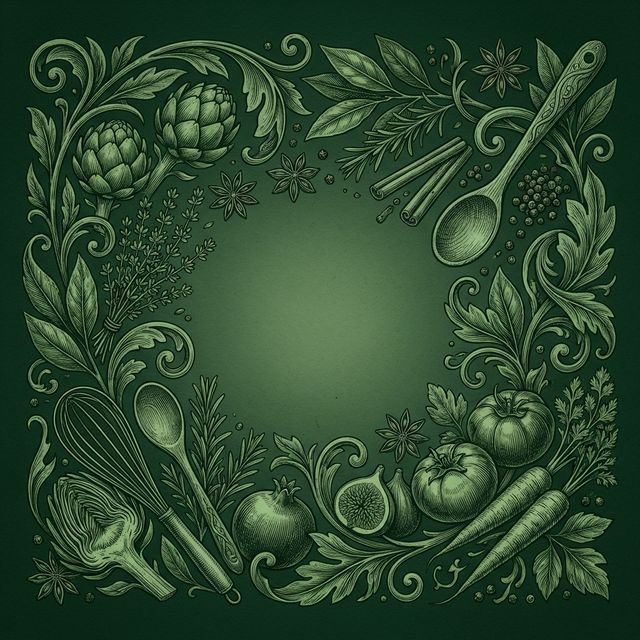
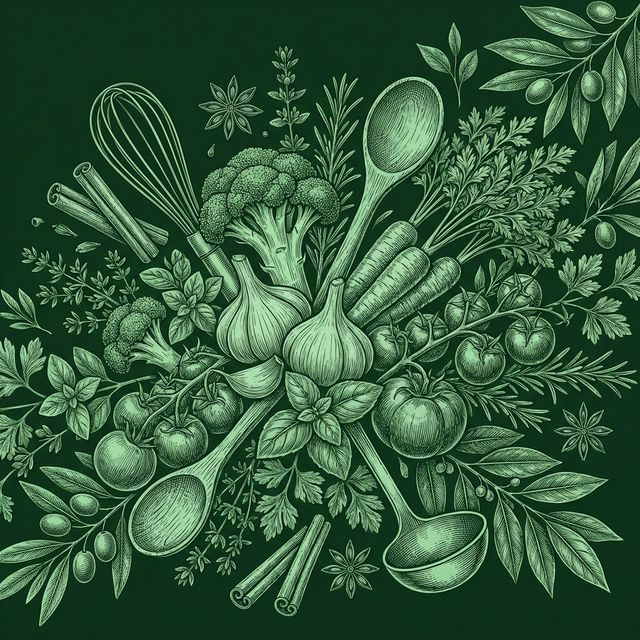
bg image changes

diff --git a/client/src/pages/Home.tsx b/client/src/pages/Home.tsx
@@ -20,20 +20,20 @@ export default function Home() {
                 className="relative w-full flex flex-col items-center justify-center text-center px-4 py-14 md:py-20 overflow-hidden"
                 style={{ minHeight: '380px' }}
             >
-                {/* Background image */}
+                {/* Background image — full, sharp, uncropped */}
                 <img
                     src={heroBg}
                     alt="Cooking illustration background"
-                    className="absolute inset-0 w-full h-full object-cover object-center select-none pointer-events-none"
-                    style={{ zIndex: 0 }}
+                    className="absolute inset-0 w-full h-full select-none pointer-events-none"
+                    style={{ zIndex: 0, objectFit: 'cover', objectPosition: 'center' }}
                 />
-                {/* Dark overlay so text stays readable */}
+                {/* Light vignette — only dark at very edges so image stays visible */}
                 <div
                     className="absolute inset-0 pointer-events-none"
                     style={{
                         zIndex: 1,
                         background:
-                            'radial-gradient(ellipse at center, rgba(15,36,24,0.55) 0%, rgba(15,36,24,0.82) 100%)',
+                            'linear-gradient(to bottom, rgba(10,28,18,0.35) 0%, rgba(10,28,18,0.1) 40%, rgba(10,28,18,0.1) 60%, rgba(10,28,18,0.55) 100%)',
                     }}
                 />
 
@@ -45,7 +45,8 @@ export default function Home() {
                         Powered by AI
                     </div>
 
-                    <h1 className="text-4xl md:text-6xl font-extrabold mb-6 tracking-tight leading-tight drop-shadow-lg">
+                    <h1 className="text-4xl md:text-6xl font-extrabold mb-6 tracking-tight leading-tight"
+                        style={{ textShadow: '0 2px 20px rgba(0,0,0,0.8), 0 1px 4px rgba(0,0,0,0.9)' }}>
                         Delicious{' '}
                         <span className="text-[#aae0c2]">AI-Generated</span>
                         <br />
@@ -53,7 +54,7 @@ export default function Home() {
                     </h1>
 
                     {/* Feature list */}
-                    <div className="flex flex-col gap-3 text-base md:text-lg mb-10 items-start text-left bg-black/20 backdrop-blur-md p-6 rounded-2xl border border-white/10 shadow-xl max-w-xl mx-auto">
+                    <div className="flex flex-col gap-3 text-base md:text-lg mb-10 items-start text-left bg-black/50 backdrop-blur-md p-6 rounded-2xl border border-white/10 shadow-xl max-w-xl mx-auto">
                         <div className="flex items-center gap-3 opacity-90">
                             <Wand2 className="text-[#aae0c2] shrink-0" size={20} />
                             <span>Instantly create unique recipes using advanced AI technology</span>
